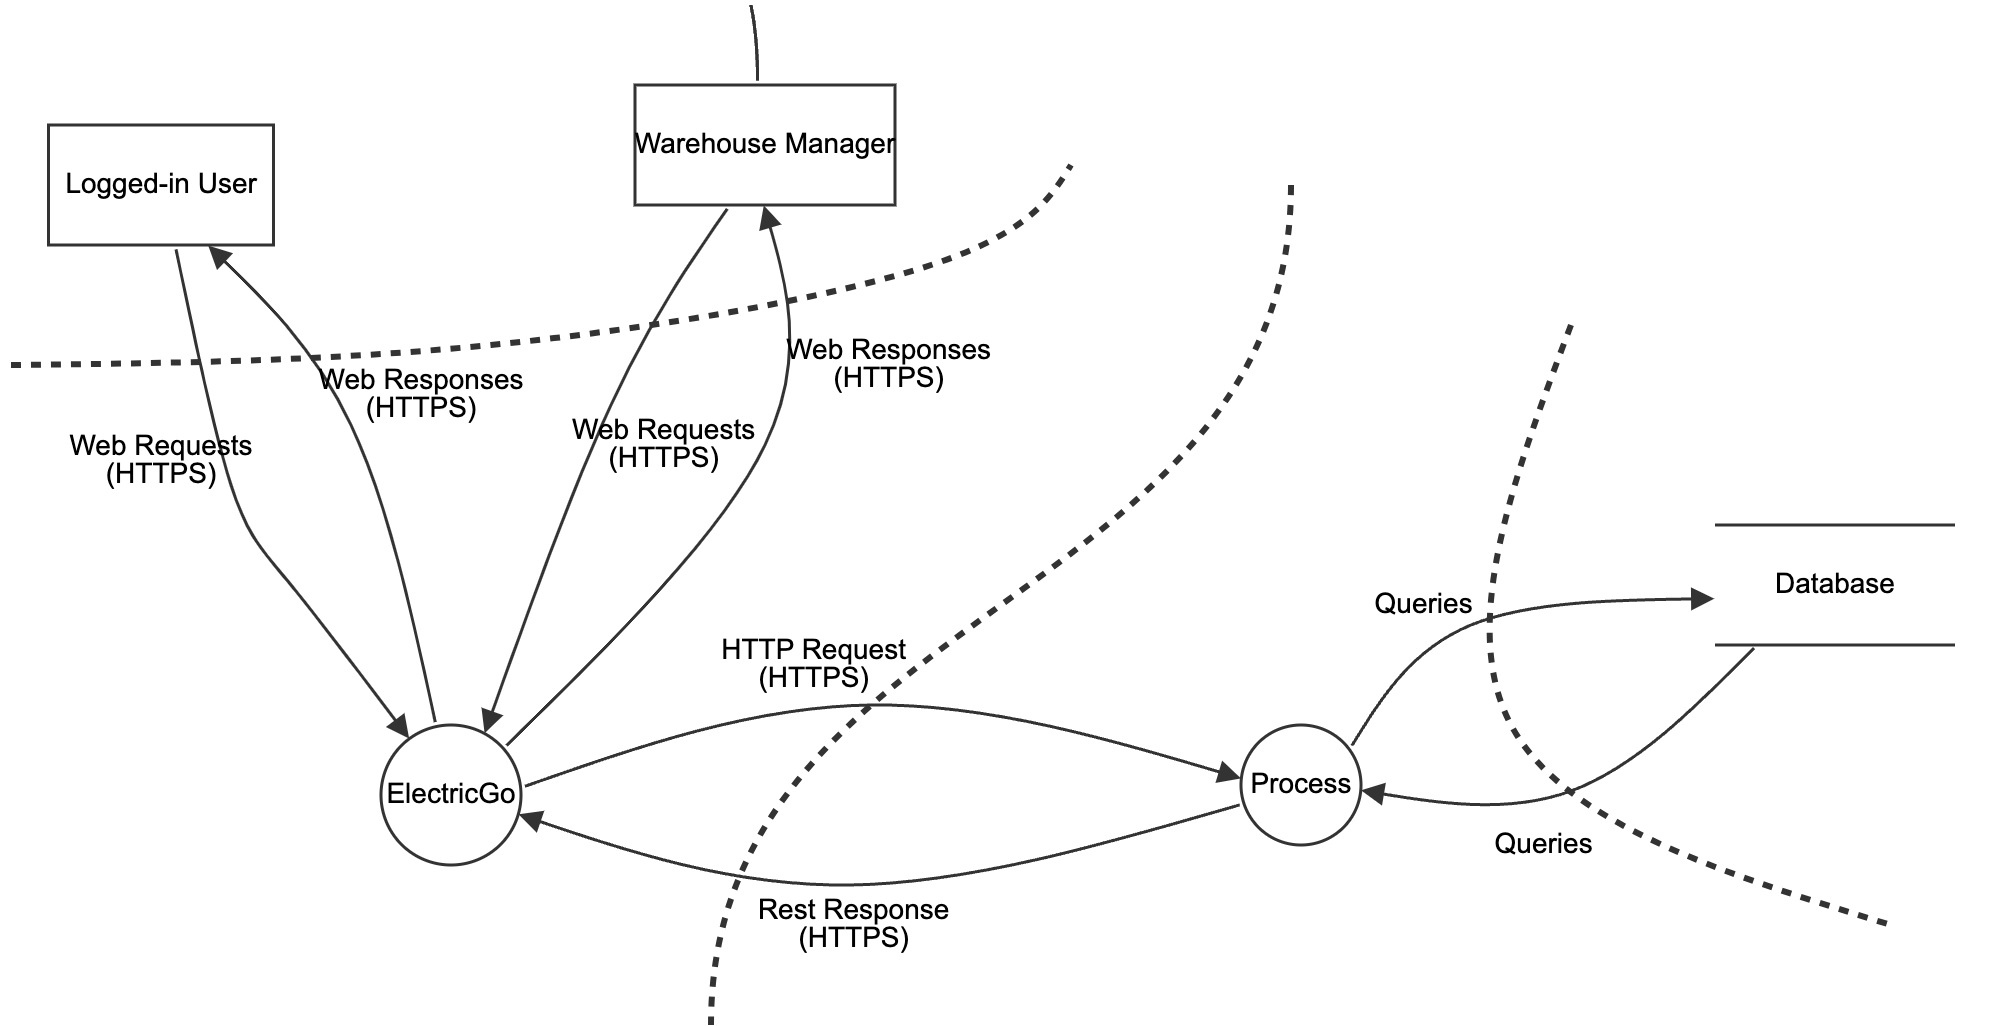
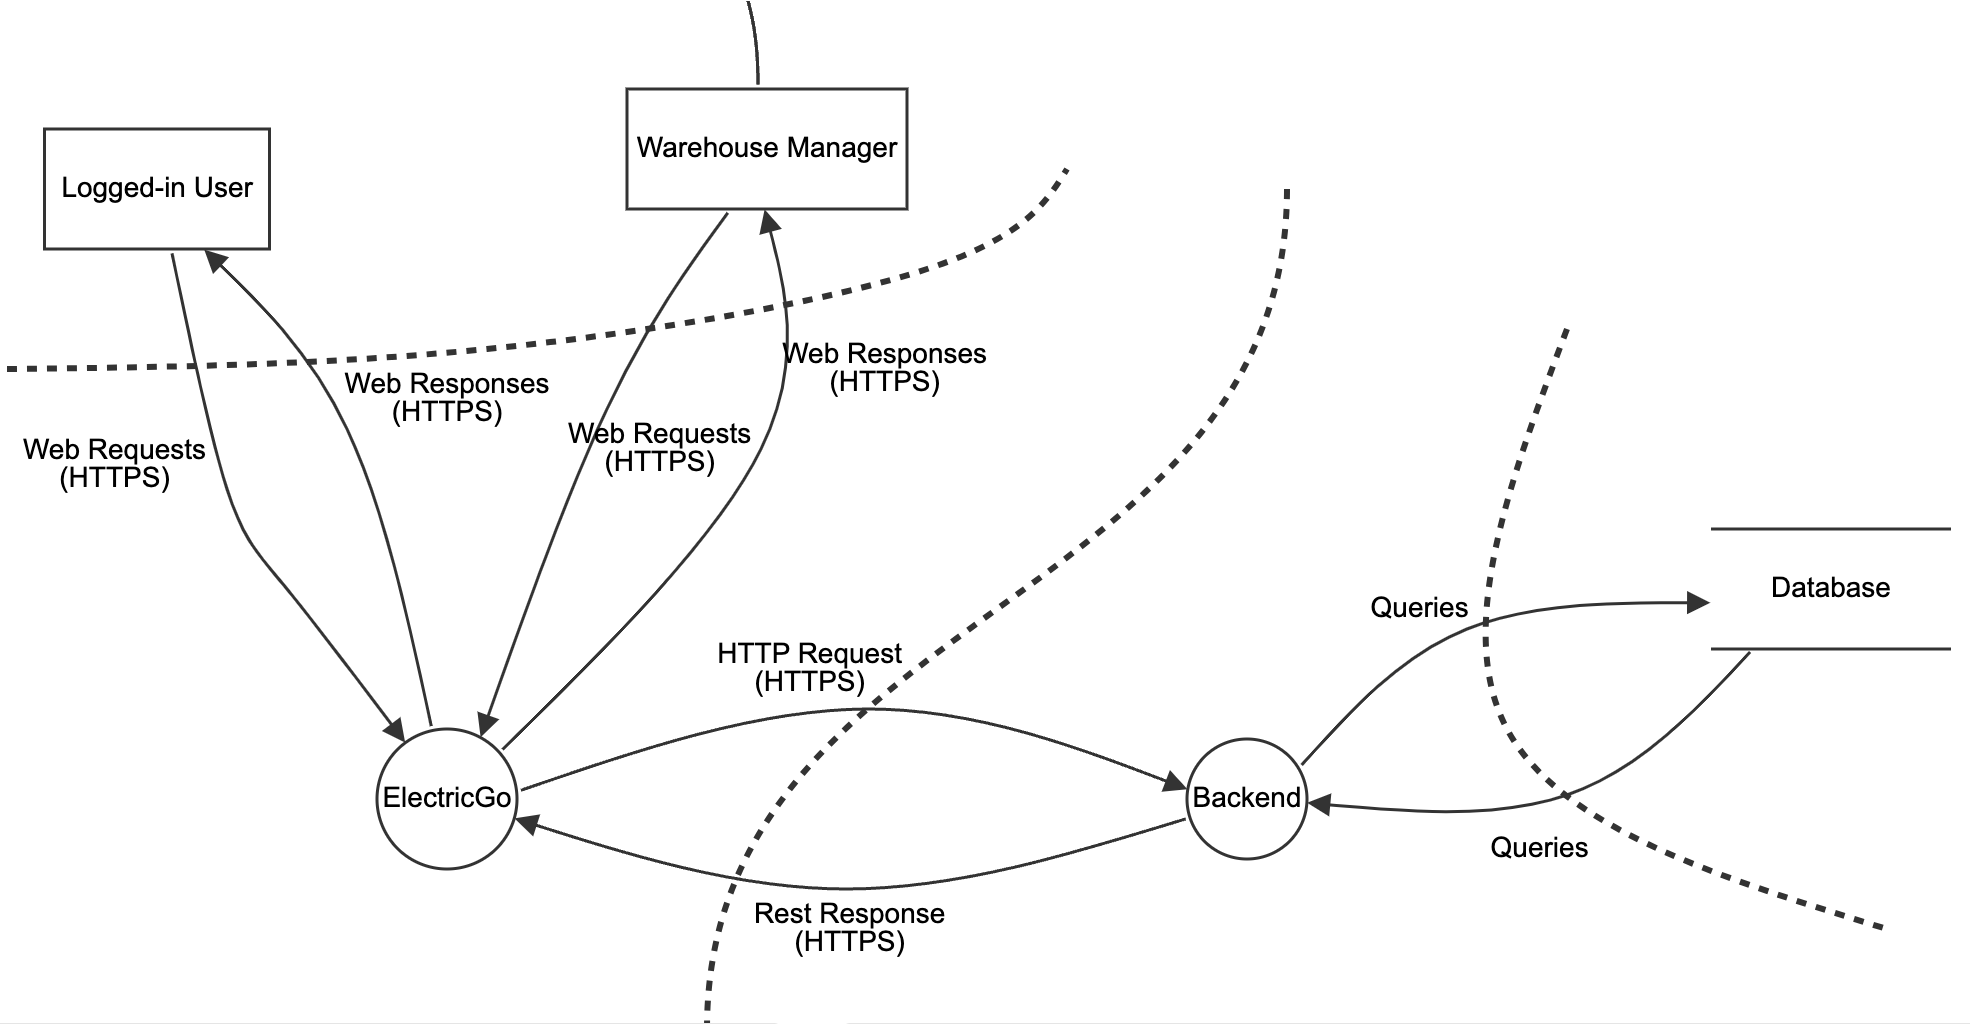
#4 Development of threat modeling documentation

diff --git a/Deliverables/delivery/README_Delivery.md b/Deliverables/delivery/README_Delivery.md
@@ -247,48 +247,92 @@ Secure architecture involves structuring the system’s components and their int
 
 Secure design patterns are proven solutions to common security problems encountered in software design.
 
-- **Authentication Pattern:** Implement the Chain of Responsibility pattern to delegate authentication tasks to the centralized authentication service using OAuth or OpenID Connect.
+- **Authentication Pattern:** Implement the responsibility pattern to delegate authentication tasks to the centralized authentication service using OAuth or OpenID Connect.
 - **Proxy Pattern:** Using a proxy to control access to a resource, intercepting and validating requests before they reach the actual resource, adding an extra layer of security for file downloads.
 - **API Security Pattern:** Leverage the API Gateway pattern as a single entry point for API requests. This allows for centralized enforcement of security measures like authentication, authorization, rate limiting, and input validation before requests reach internal services.
 - **Singleton Pattern:** Implement critical security components, like cryptographic engines or security configuration managers, as singletons to ensure controlled access and consistent security configurations across the application.
-- **Secure Logging and Monitoring Pattern:** Implementing the Centralized Logging pattern to capture all relevant events, including user activity, system events, and potential security incidents.
+- **Logging and Monitoring Pattern:** Implementing the Centralized Logging pattern to capture all relevant events, including user activity, system events, and potential security incidents.
 - **Observer Pattern:** Applying the observer pattern to monitor changes to critical data or configuration and automatically update dependent components in a secure manner.
 
 ### 3.4 Threat Modelling
 
 #### 3.4.1 Threat Model Information
 
+**Application Name:** ElectricGo.
 
+**Application Version:** 1.0.
+
+**Description:** The application ElectricGo is a system created to manage the deliveries of packages through electric trucks.
+
+**Document Owner:** Cristiano Soares
+
+**Participants:**
+
+- Alexandra Leite
+- Cristiano Soares
+- Fábio Cruz
+- Pedro Fernandes
+- Vitor Costa
+
+**Reviewer:** Fábio Cruz
 
 #### 3.4.2 External Dependencies
 
-- **Centralized Authentication Service (CAS):** A system responsible for user authentication.
-- **Database Management System (DBMS):** A system for storing delivery order data.
-- **Network Infrastructure:** The network components that allow communication between the backend, frontend, and other external systems.
+| ID | Description                                                                                                |
+|----|------------------------------------------------------------------------------------------------------------|
+| 1  | A system responsible for user authentication.                                                              |
+| 2  | A system for storing delivery order data.                                                                  |
+| 3  | The network components that allow communication between the backend, frontend, and other external systems. |
 
 #### 3.4.3 Entry Points
 
-- **API Gateway:** The entry points for API requests to manage deliveries. (Highest Trust)
-- **Web application:** A web interface for warehouse managers to manage deliveries. (Medium Trust - External user interface)
-- **Database Interface:** This entry point allows the backend to interact with the database. (Highest Trust)
+| ID | Name               | Description                                                        | Trust Levels                                                                                         |
+|----|--------------------|--------------------------------------------------------------------|------------------------------------------------------------------------------------------------------|
+| 1  | API Gateway        | The entry points for API requests to manage deliveries.            | (1) Anonymous User (2) User with Valid Login Credentials (3) User with Invalid Login Credentials     |
+| 2  | Web application    | A web interface for warehouse managers to manage deliveries.       | (1) Anonymous Web User (2) User with Valid Login Credentials (3) User with Invalid Login Credentials |
+| 3  | Database Interface | This entry point allows the backend to interact with the database. | (1) Anonymous Web User (2) User with Valid Login Credentials (3) User with Invalid Login Credentials |
 
 #### 3.4.4 Exit Points
 
-- **API Gateway (Highest Trust):** Delivery plan PDFs downloaded by authorized warehouse managers.
-- **Web application (optional) (Medium Trust - External user interface):** Delivery information displayed to authorized users.
-- **Mobile application (optional) (Medium Trust - External user interface):** Delivery information displayed to authorized users.
+| ID | Name               | Description                                                     | Trust Levels                                                                                     |
+|----|--------------------|-----------------------------------------------------------------|--------------------------------------------------------------------------------------------------|
+| 1  | API Gateway        | Delivery plan PDFs downloaded by authorized warehouse managers. | (1) Anonymous User (2) User with Valid Login Credentials (3) User with Invalid Login Credentials |
+| 2  | Web application    | Delivery information displayed to authorized users.             | (1) Anonymous User (2) User with Valid Login Credentials (3) User with Invalid Login Credentials |
+| 3  | Database Interface | Delivery information displayed to authorized users.             | (1) Anonymous User (2) User with Valid Login Credentials (3) User with Invalid Login Credentials |
 
 #### 3.4.5 Assets
 
-- **Delivery Order Data (Highest Trust):** Information about deliveries such as order ID, weight, warehouse location.
-- **User Information (Highest Trust, if stored within Delivery Aggregate):** Warehouse manager and operator credentials.
-- **Delivery Plans (Highest Trust):** Documents containing route and order details, potentially containing sensitive information.
+| ID | Name                | Description                                                                                 | Trust Levels                                                                                     |
+|----|---------------------|---------------------------------------------------------------------------------------------|--------------------------------------------------------------------------------------------------|
+| 1  | Delivery Order Data | Information about deliveries such as order ID, weight, warehouse location.                  | (1) Anonymous User (2) User with Valid Login Credentials (3) User with Invalid Login Credentials |
+| 2  | Delivery Plans      | Documents containing route and order details, potentially containing sensitive information. | (1) Anonymous User (2) User with Valid Login Credentials (3) User with Invalid Login Credentials |
 
 #### 3.4.6 Trust Levels
 
-- **Highest Trust:** Internal systems directly managed by ElectricGo with strong security controls (e.g., secure coding practices, regular security testing).
-- **Medium Trust:** External dependencies with a good reputation for security (e.g., well-established cloud service providers) or authorized users with specific roles (Warehouse Manager, Operator).
-- **Low Trust:** Untrusted external sources or users attempting to access the Delivery Aggregate.
+| ID | Name                                | Description                                                                      |
+|----|-------------------------------------|----------------------------------------------------------------------------------|
+| 1  | Anonymous User                      | Untrusted external sources or users attempting to access the Delivery Aggregate. |
+| 2  | User with Valid Login Credentials   | Authorized users with specific roles (Warehouse Manager, Operator).              |
+| 3  | User with Invalid Login Credentials | Unauthorized users attempting to access the Delivery Aggregate.                  |
+
+#### 3.4.7. Data Flow Diagrams
+
+Data Flow Diagrams (DFDs) are graphical representations of the flow of data within a system. They help identify potential threats and vulnerabilities in the system.
+
+![Delivery_Threat_Modelling.png](diagrams/Delivery_Threat_Modelling.png)
+
+#### 3.4.8. Threat Analysis
+
+**STRIDE Threat Categories**
+
+| Category                   | Property Violated  | Description                                                                                                                      |
+|----------------------------|--------------------|----------------------------------------------------------------------------------------------------------------------------------|
+| **Spoofing**               | Authentication     | Threat action aimed at accessing and using another user's credentials, such as username and password.                            |
+| **Tampering**              | Integrity          | Threat action intending to maliciously change or modify persistent data or data in transit over an open network.                 |
+| **Repudiation**            | Non-Repudiation    | Threat action aimed at performing operations in a system that lacks the ability to trace the operations.                         |
+| **Information Disclosure** | Confidentiality    | Threat action intending to expose data to unauthorized parties, such as reading data one was not granted access to.              |
+| **Denial of Service**      | Availability       | Threat action attempting to deny access to valid users, such as by making a web server temporarily unavailable.                  |
+| **Elevation of Privilege** | Authorization      | Threat action intending to gain privileged access to resources, often to compromise a system or access unauthorized information. |
 
 ### 3.5 Security Test Planning
 
